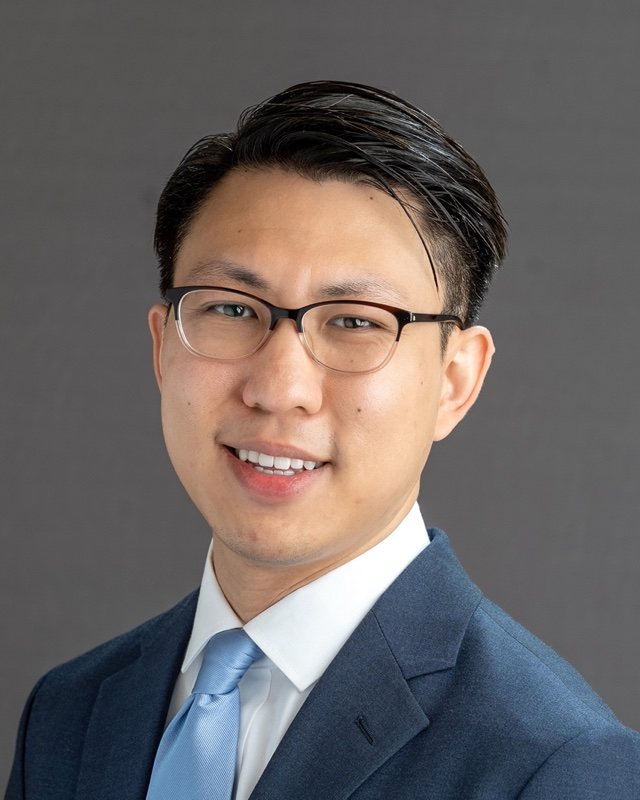
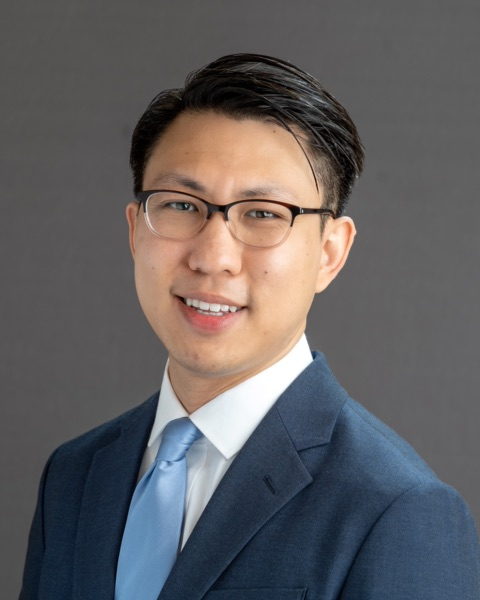
Full-height photo with rounder corners, no sidebar fade, bold job-market line, smaller photo file

diff --git a/assets/css/main.scss b/assets/css/main.scss
@@ -76,11 +76,16 @@ details[open] > summary::after {
   content: "▲";
 }
 
-// Sidebar less faded
+// Sidebar not faded, and the photo and name not links (they would only lead to this page)
 .sidebar {
   @include breakpoint($large) {
-    opacity: 0.9;
+    opacity: 1;
   }
+}
+
+.author__avatar a,
+.author__name a {
+  pointer-events: none;
 }
 
 // Profile picture: larger, rectangular, unframed
@@ -88,7 +93,7 @@ details[open] > summary::after {
   max-width: 240px;
   padding: 0;
   border: 0;
-  border-radius: $border-radius;
+  border-radius: $border-radius * 3; // the theme's radius reads as square on a picture this size
 }
 
 // Equal spacing between photo, name, and email

diff --git a/_pages/home.md b/_pages/home.md
@@ -6,7 +6,7 @@ permalink: /
 
 I am a PhD candidate in economics at Yale University. My research is in health economics and industrial organization. I study the design of public payments in health care markets.
 
-I am on the 2026–2027 job market! In my [job market paper](/files/yu_thomas_jmp.pdf){:target="_blank"}, I find that hospital obstetric units in Arkansas provide substantial value, mostly by improving mothers' access to care, and I evaluate payments aimed at keeping them open.
+**I am on the 2026–2027 job market.** In my [job market paper](/files/yu_thomas_jmp.pdf){:target="_blank"}, I find that hospital obstetric units in Arkansas provide substantial value, mostly by improving mothers' access to care, and I evaluate payments aimed at keeping them open.
 
 Take a look at my [research statement](/files/yu_thomas_research_statement.pdf){:target="_blank"}, [teaching statement](/files/yu_thomas_teaching_statement.pdf){:target="_blank"}, and [CV](/files/yu_thomas_cv.pdf){:target="_blank"}.
 

diff --git a/README.md b/README.md
@@ -8,7 +8,7 @@ Beyond the theme's settings, I made the following customizations:
   - Reduce the space to the right of the text.
   - Scroll smoothly to sections of the page.
   - Format buttons and abstract toggles.
-  - Adjust opacity of sidebar.
+  - Do not fade the sidebar, and make the photo and name not clickable.
   - Adjust size and shape of profile picture.
   - Space photo, name, and email evenly, and on mobile show email instead of hiding it behind a button.
   - Adjust relative font sizes of name, email, and copyright line.
